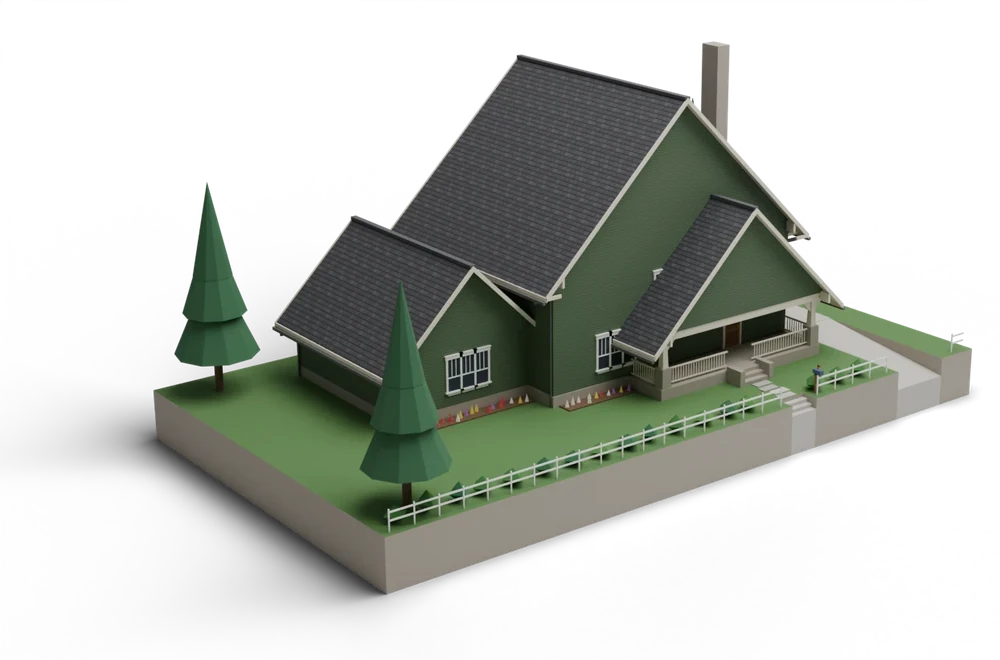
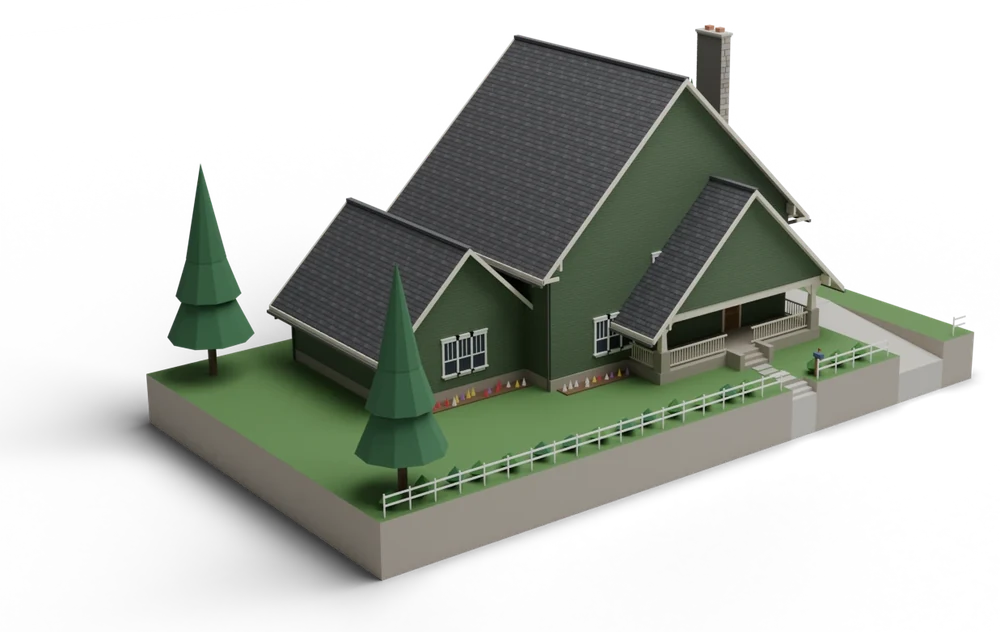
Licence cards: Personal and Commercial from the house kit v3
Both renders come from the game's standard house kit v3 (stone chimney; the
Commercial one has the shop on the ground floor with a glass shop front, a
striped awning and a shop sign, the home above), shot with the same camera,
light and exposure as the other cards. Cropped to the content with a 30 px
margin, 1000 px wide, WebP q88 with alpha.

The Commercial caption is back to "MIXED USE: SHOP BELOW, HOME ABOVE" with the
district-catalogue note, and its alt describes the new image.

diff --git a/app/dogcity/dogcity-data.ts b/app/dogcity/dogcity-data.ts
@@ -264,9 +264,10 @@ export const LICENCE_BTC_NOTE = "Paid in BTC: building licence and item pack onl
 // $DOG laranja; Patron = residência sob medida (mansão) + moto + Cyber $DOG PRETA + helicóptero. O estilo da casa depende do
 // distrito do dono, então a legenda do catálogo diz "exemplo"; só o Patron é "feito para você".
 // Imagens: WebP com transparência em /public/landing/licences/, os prédios recortados ao conteúdo e com 1000 px de largura
-// (o cartão tem proporção fixa 16:10 e `object-contain`, então `w`/`h` não mudam o layout). O prédio do Personal é a v1 e
-// vai ser trocado por uma v2 com o mesmo nome; o do Commercial é um café comercial provisório (por isso a legenda diz
-// "COMMERCIAL OR MIXED USE"); o do Patron é a mansão de The Spit.
+// (o cartão tem proporção fixa 16:10 e `object-contain`, então `w`/`h` não mudam o layout). Personal e Commercial são as casas
+// padrão do kit v3 do jogo (dogcity-mundo, scripts/casas: chaminé de pedra; no Commercial, a loja no térreo com vitrine,
+// marquise listrada e placa, a moradia em cima), fotografadas no estúdio com a mesma câmera e a mesma luz; o Patron é a
+// mansão de The Spit.
 // Os veículos foram fotografados no estúdio do Blender (dogcity-mundo, plano/the_build/filme/estudio_veiculos.py, modo cartão).
 // O helicóptero é o "Bell 429 Helicopter" de agreene (Sketchfab, CC BY 4.0): o crédito (`credit`) sai no próprio cartão,
 // é condição da licença.
@@ -292,7 +293,7 @@ export const TIERS = [
       "Early access to the game, to every test and every update",
     ],
     building: {
-      src: "/landing/licences/building-personal.webp", w: 1000, h: 660,
+      src: "/landing/licences/building-personal.webp", w: 1000, h: 632,
       kind: "A RESIDENCE", note: "Example from the district catalogue. The style depends on your district.",
       alt: "Example of a residence from the DogCity district catalogue: a house with a yard on its own lot",
     },
@@ -312,9 +313,9 @@ export const TIERS = [
       "Vehicles: the $DOG moto and an orange Cyber $DOG",
     ],
     building: {
-      src: "/landing/licences/building-commercial.webp", w: 1000, h: 666,
-      kind: "COMMERCIAL OR MIXED USE", note: "Example from the district catalogue. The style depends on your district.",
-      alt: "Example of a commercial building from the DogCity district catalogue: a mid-century café with a glass front and a roadside sign",
+      src: "/landing/licences/building-commercial.webp", w: 1000, h: 689,
+      kind: "MIXED USE: SHOP BELOW, HOME ABOVE", note: "Example from the district catalogue. The style depends on your district.",
+      alt: "Example of a mixed-use building from the DogCity district catalogue: a house with a shop on the ground floor, a glass shop front, a striped awning and a shop sign, with the home above",
     },
     vehicles: [
       VEHICLE_MOTO,
